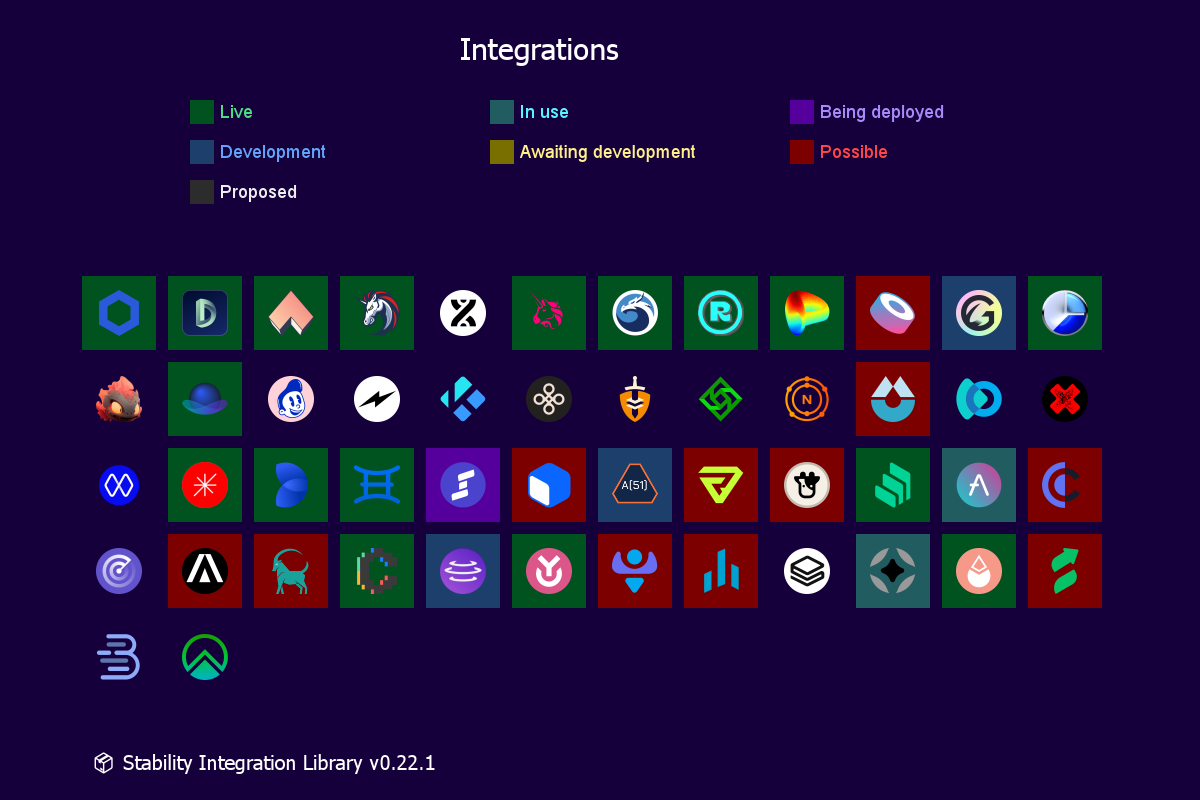
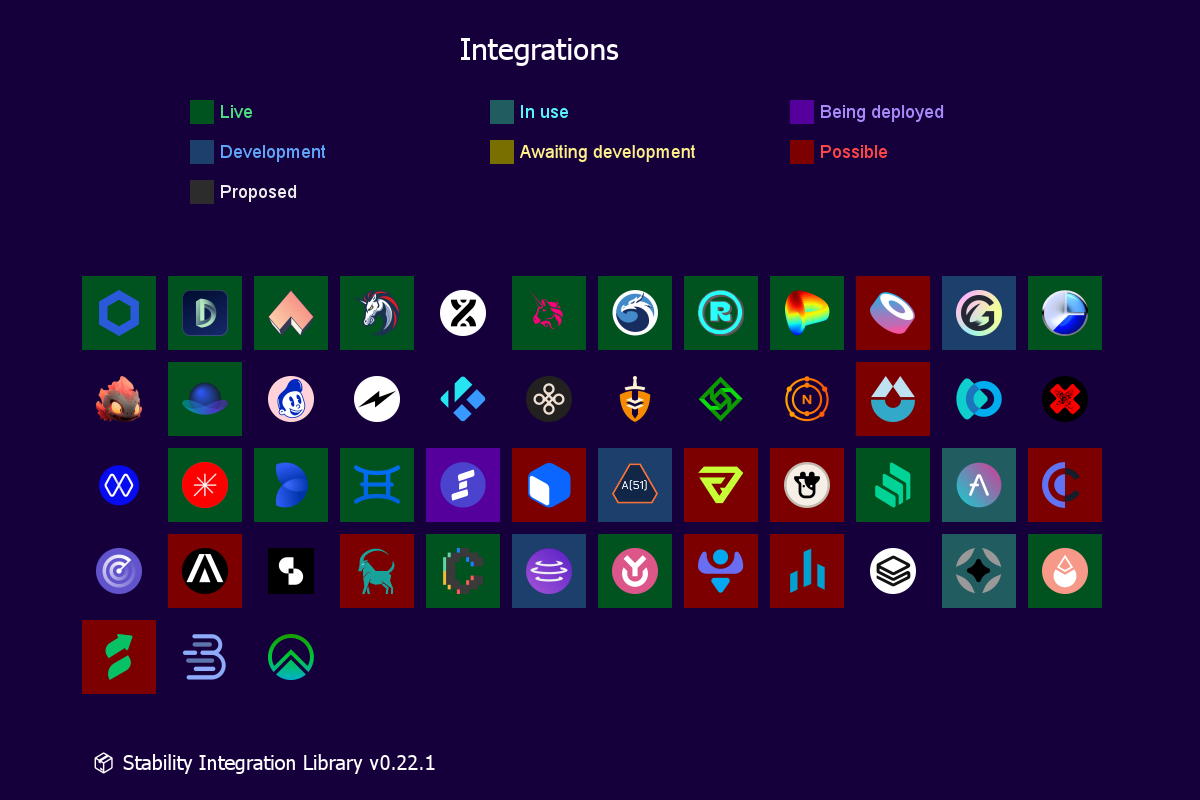
🌐 add silo

Changed region(s): [[0.0617, 0.6562, 0.925, 0.875]]

diff --git a/src/integrations.ts b/src/integrations.ts
@@ -1099,6 +1099,33 @@ export const integrations: { [org: string]: DeFiOrganization } = {
     },
     defiLlama: "avalon-finance",
   },
+  silo: {
+    name: "Silo",
+    img: "silo.png",
+    website: "https://www.silo.finance",
+    protocols: {
+      siloV1: {
+        name: "Silo V1",
+        category: DefiCategory.LENDING,
+        chains: [
+          ChainName.ARBITRUM,
+          ChainName.OPTIMISM,
+          ChainName.ETHEREUM,
+          // sonic?
+        ],
+      },
+      siloV2: {
+        name: "Silo V2",
+        category: DefiCategory.LENDING,
+        chains: [
+          ChainName.ARBITRUM,
+          // sonic?
+        ],
+      },
+    },
+    defiLlama: "silo-finance",
+    github: "silo-finance",
+  },
   // leveraged lending
   impermax: {
     name: "Impermax",
